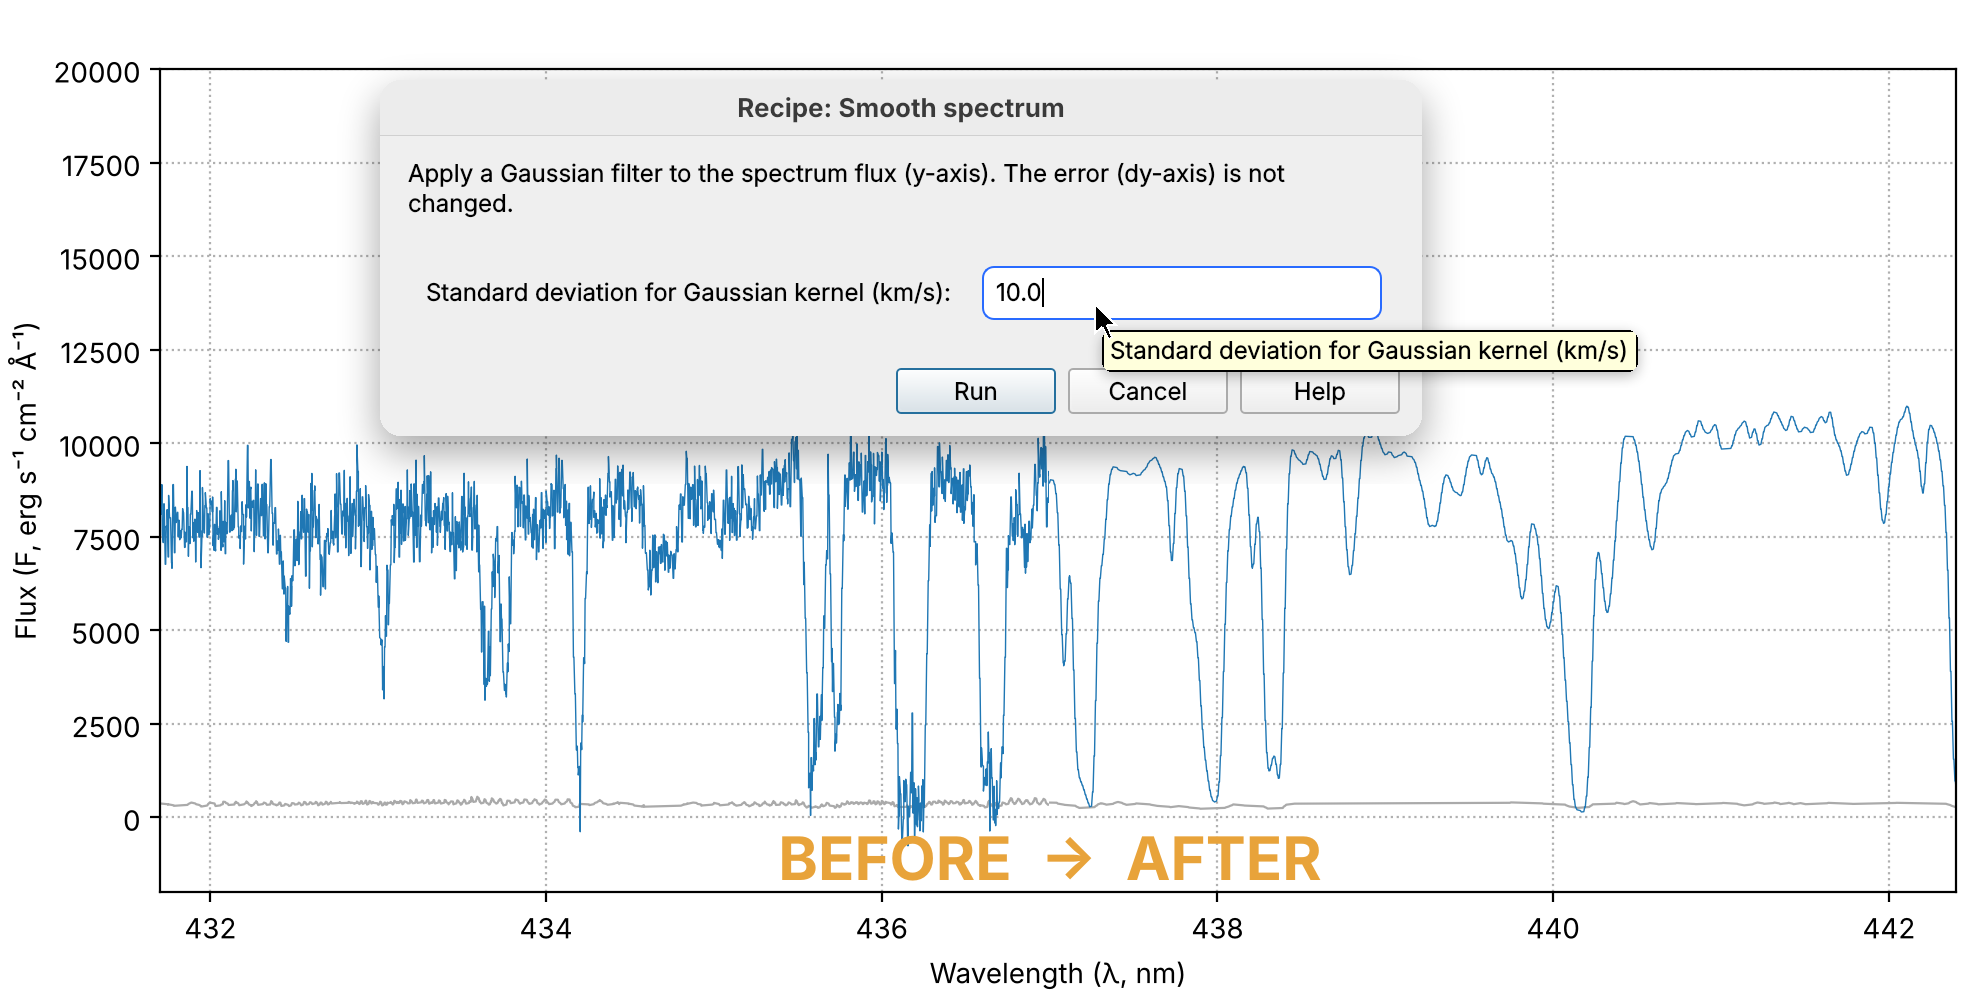
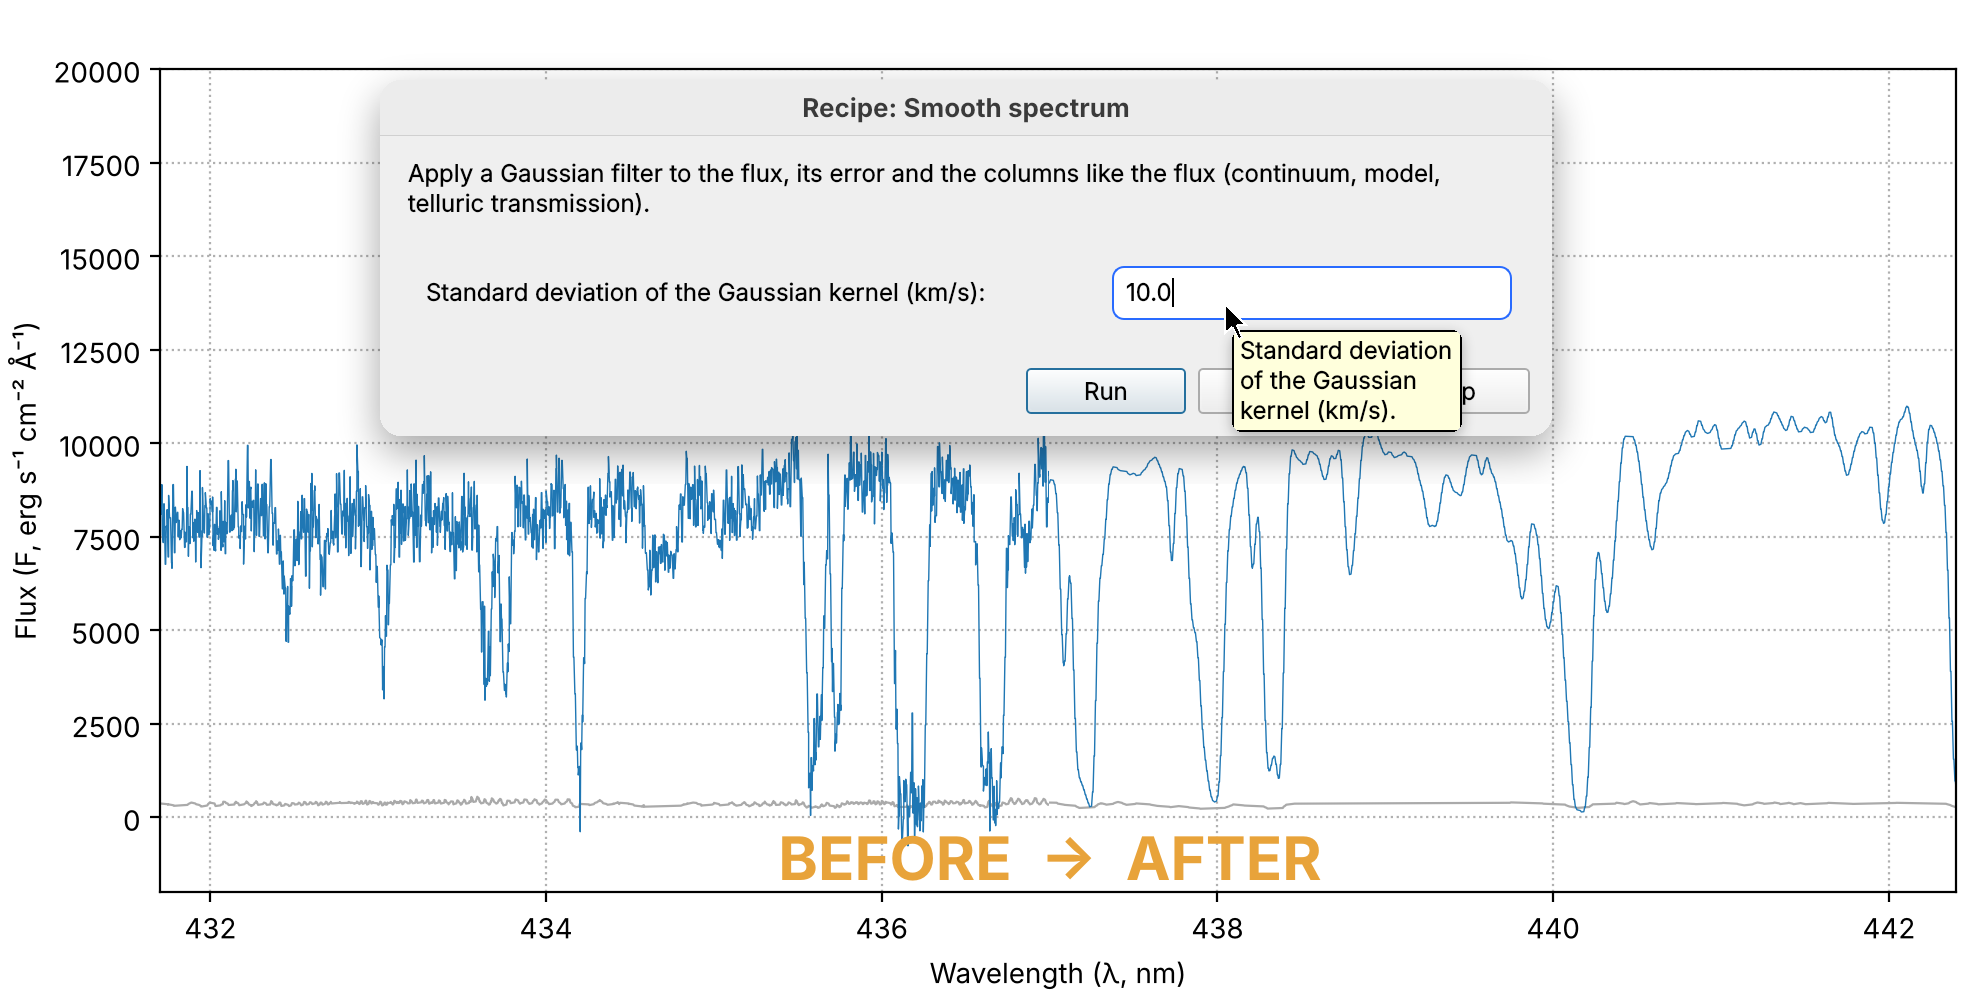
Phase 6-bis, PR 6a-bis: the dialogs keep their width with the new texts
The descriptions of the parameters are the labels of the dialogs: with
the sentences of PR 6a the dialogs grew wider than the window. The labels
wrap (those of the check boxes too, now beside them), the tooltips are
rich text and wrap; a test on the width of every dialog; the five
screenshots of dialogs rebuilt.

Claude-Session: https://claude.ai/code/session_01N95cbLQ7WGtHJHs4oF6oqT

diff --git a/astrocook/gui/recipe_dialog.py b/astrocook/gui/recipe_dialog.py
@@ -1,4 +1,5 @@
 import logging
+import html
 import webbrowser
 from PySide6.QtWidgets import (
     QDialog, QFormLayout, QFrame, QGridLayout, QLabel, QLineEdit, QCheckBox,
@@ -13,6 +14,11 @@ from .theme import (ACCENT, BUTTON_BACKGROUND, BUTTON_BORDER, BUTTON_PRESSED, DA
                     INPUT_BORDER, WARNING, themed)
 
 logger = logging.getLogger(__name__)
+
+#: Width of the labels of the parameters (points): they wrap within it
+LABEL_WIDTH = 340
+#: Width of the description of the recipe (points), the label and the field
+DIALOG_TEXT_WIDTH = LABEL_WIDTH + 260
 
 class RecipeDialog(QDialog):
     """
@@ -150,6 +156,7 @@ class RecipeDialog(QDialog):
         if self.schema.details:
             desc_label = QLabel(self.schema.details)
             desc_label.setWordWrap(True)
+            desc_label.setMaximumWidth(DIALOG_TEXT_WIDTH)
             main_layout.addWidget(desc_label)
 
         # 2. Parameters Form
@@ -173,8 +180,14 @@ class RecipeDialog(QDialog):
                 if is_current:
                     param_default, current_hint = self._current_value(param_name)
 
+                # The descriptions are sentences (phase 6-bis, PR 6a): the
+                # label wraps, so that the dialog keeps a reasonable width
                 label = QLabel(f"{param_doc.rstrip('.')}:")
-                label.setToolTip(param_doc) 
+                label.setWordWrap(True)
+                label.setFixedWidth(LABEL_WIDTH)
+                # As rich text, which Qt wraps (a plain one is one line)
+                tooltip = f"<p>{html.escape(param_doc)}</p>"
+                label.setToolTip(tooltip)
 
                 widget = None
                 
@@ -190,11 +203,13 @@ class RecipeDialog(QDialog):
                 elif param_type == bool:
                     def_c = param.default
                     if isinstance(def_c, str): def_c = def_c.lower() == 'true'
-                    widget = QCheckBox(); widget.setChecked(def_c); label.setText(""); widget.setText(f"{param_doc}")
+                    # The text in the label, which wraps (that of a check
+                    # box does not)
+                    widget = QCheckBox(); widget.setChecked(def_c)
                 else:
                     widget = QLineEdit(param_default)
 
-                widget.setToolTip(param_doc)
+                widget.setToolTip(tooltip)
                 if is_current and isinstance(widget, QLineEdit):
                     # Left empty, the parameter keeps its current value (F63)
                     widget.setPlaceholderText(current_hint or "current value")

diff --git a/tests/test_main_recipes.py b/tests/test_main_recipes.py
@@ -229,6 +229,22 @@ def test_recipe_dialog(ready, monkeypatch):
     assert window.active_recipe_dialog is None
 
 
+def test_the_dialogs_keep_a_reasonable_width(ready):
+    # The descriptions are sentences since phase 6-bis (PR 6a): their labels
+    # wrap, and the dialogs did grow wider than the window without it
+    from astrocook.recipes.registry import all_recipes
+    window = ready
+    for spec in all_recipes():
+        if spec.gui_hidden:
+            continue
+        window._launch_recipe_dialog(spec.category, spec.name)
+        dialog = window.active_recipe_dialog
+        if dialog is None:
+            continue
+        assert dialog.sizeHint().width() < 900, spec.name
+        dialog.reject()
+
+
 def test_set_properties_dialog_shows_the_current_values(ready):
     window = ready
     window._launch_recipe_dialog("edit", "set_properties", {"object": "QSO"})

diff --git a/ROADMAP.md b/ROADMAP.md
@@ -2326,7 +2326,11 @@ The full MCP server (section 4) is generated from this API.
      `mask_unabs`, `import_ascii` said it reads the system list, the
      meaning of `group_depth`, of `order` of *Equalize*); `stitch` declares
      its parameters (`other_sessions`, `sort`), so that it can be offered;
-     a test that every recipe and parameter is described;
+     a test that every recipe and parameter is described. Found after
+     the merge, while rebuilding the screenshots: with the longer texts the
+     dialogs grew wider than the window (the descriptions are their
+     labels); fixed in PR 6a-bis (labels and tooltips that wrap, a test on
+     the width of every dialog, the five screenshots of dialogs rebuilt);
   7. F12, the other half: the custom series of `add_component` kept with
      the session instead of `STANDARD_MULTIPLETS`;
   8. the MCP pilot moved onto the new API (still a thin layer: the test
@@ -3014,5 +3018,5 @@ review); each of its decisions goes into the log.
 | 5 – Splitting large files (and GUI performance) | done (October 2026): order of the phase agreed, F12 moved to 6-bis; GUI benchmark (`benchmarks/bench_gui.py`, #634); inspector table (first opening 3.7 → 1.3 s, #635); ticks of the main plot (redraw 0.19 → 0.13 s, #636), found F66; draws of the velocity plot coalesced (first opening 1.43 → 1.19 s, #637); Qt enums of the table read once (first opening 1.22 → 0.54 s; from 3.96 s before the phase, #638); highlights of the main plot blitted (selection of a row 0.32 → 0.22 s, #639); split of `SpectrumV2`: continuum (#640), found F67; lines (#641), found F68; calibration fixed (`np.trapz` removed from NumPy, #642), found F69, F70; flux (#643); combination (#644), found F71, F72; expressions and masks: split of `SpectrumV2` complete (2826 → 774 lines, #645); tests in parallel (#646); split of the GUI: F7 fixed (#647); inspector table (#648); velocity plot (#649); its rebuild and layout faster (selection 0.23 → 0.18 s, #650); parts of the main plot in their modules, found F73 (#651); continuum editor in a mixin, found F74 (#652); mouse handlers and tooltip in a mixin (#653); `plot_spectrum` split into its parts, found F75, F76 (#654); split of `main_window.py`: accessory widgets and dialogs (#655), menus, found F77 (#656); panels, found F78 (#657); controls of the continuum editor, F74 fixed (#658); sessions, found F79 (#659); recipes and scripts, found F80-F83: split of `main_window.py` complete (4831 → 541 lines) (#660); F82, F83 fixed (#661); F66 fixed, found F84 (#662); closing: documentation of the API (the methods of `SpectrumV2` back on its page), result of the phase (System Inspector opened ~7× faster, selection ~3×; `spectrum.py` 2826 → 774 lines, `main_window.py` 4831 → 541; coverage 67% → 81%) |
 | 5-bis – GUI look and ergonomics | done (November 2026): order of the phase agreed (all the findings proposed, F73, F76, F77, F80 included); F67, F71 fixed (PR 1, #664); F69 (PR 2, #665); F70 (PR 3, #666); #630 (PR 4, #667); F81, F75 (PR 5, #668); F78 (PR 6, #669); F85, the boxes of the System Inspector (PR 6-bis, #670); F77, F80 (PR 7, #671); F73 (PR 8, #672); F76 (PR 9, #673), found F86; F86 (PR 9-bis, #674); theme module, PR A (no visible change; Select icon, #675), found F87; PR B (dark mode, F87, #676); the toolbar of the plots redesigned (Guido's request, #677); View > Appearance and View > Show Toolbar, F88 (#678); the visual review, found F89, F90; the bugs of the review (F89, F90, the links and placeholders of the dark palette) and F91 (reported by Guido), found F92 (#679); the pass on the texts, with F92 (#680); the main plot (names of the emission lines in spectroscopic notation on a white ground, the ticks of the systems in two rows and softer, no title, the unit of the flux in the usual order; agreed with Guido, #681); the System Inspector (the error of z in km/s, btur hidden while not in use with a menu of the columns, the boxes above the plot in three groups on one row, to keep the plot aligned with the table: Guido; #682); the System Inspector without a continuum or systems (a message with a button instead of empty panels, the fits disabled, the transitions typed shown without a component, #683); the status bar (outcome of the last recipe, coordinates moved from the toolbars) and the keys of the System Inspector (#684; with it, the axes of the main plot on whole pixels: the constrained layout moved them by ~1e-13 px between draws); the toolbar floating over the plot and fading as the cards (Guido's request; as a card with its tab, as wide as the cards, #685); the minor points of the review: the Identifications window as a table, the formats of the Data Inspector (found F93: the identification by doublets, for phase 7; #686); the main window and the menus (the welcome screen with Open Session and the recent files, File > Open Recent, the window geometry remembered, Import Systems in Absorbers, several files loaded in the background with their progress, Guido's request; #687); the script console left as it is (Guido: kept in the code until it is clear whether it is needed with the MCP server, or can be given another use); the colours of the plots (Guido's choice after a comparison on the main plot and the System Inspector, with simulations of colour blindness: View > Plot Colours, the standard palette with a thinner model, or a colour-blind safe one from the Okabe-Ito palette, where model, selection and residuals of the velocity plot no longer turn one olive for a deuteranope; with it, the CIV/SiIV system of the screenshots of the System Inspector refined with Optimize System, Guido's request; #688); closing: result of the phase in "Result of the phase" |
 | 6 – Error handling | done (November 2026): plan, inventory of the broad except clauses, rule of the log messages (PR 1, #691); F94 (PR 2, #692); loggers per module, F96 (PR 3, #693); rows N and R of core, fitting and io and their messages, found F97 (PR 4a, #694); their rows D (PR 4b, #695); rows N, R and B of the recipes and their messages, found F98 (PR 5a, #696); their rows D (PR 5b, #697); prerequisites of the fits, F99, the scheme of the prerequisites for 6-bis (PR 5c, #698); rows N and C of the GUI and its messages, `V1LogArtifact` removed (PR 6a, #699); rows B and D of the GUI and of the launcher, the hook for unexpected errors (PR 6b, #700); the warnings of the libraries, warnings as errors in the tests (PR 7, #701); closing: result of the phase in "Result of the phase" |
-| 6-bis – Recipe API | in progress (November 2026): plan of the phase (PR 0, #705); the typed registry, F79, half of F12 (PR 1, #706); typed parameters of continuum, flux and file, the log of the values used (PR 2a, #707); Edit, F46 and the bounds (PR 2b, #708); Absorbers, all the recipes typed (PR 2c, #709); exceptions, continuum, flux and file (PR 3a, #710); edit (PR 3b, #711); absorbers, no recipe returns 0 (PR 3c, #712); structured result, `run` (PR 4a, #713); region and score of the candidates, `not_fitted`, the reasons of the removals (PR 4b, #714); F102, the notes of a result in the status bar and the log (PR 4c, #715); prerequisites, core and scripts, F103 (PR 5a, #716); the GUI asks for the continuum, F104 (PR 5b, #717); descriptions reviewed, F48, the parameters not for agents (PR 6a) |
+| 6-bis – Recipe API | in progress (November 2026): plan of the phase (PR 0, #705); the typed registry, F79, half of F12 (PR 1, #706); typed parameters of continuum, flux and file, the log of the values used (PR 2a, #707); Edit, F46 and the bounds (PR 2b, #708); Absorbers, all the recipes typed (PR 2c, #709); exceptions, continuum, flux and file (PR 3a, #710); edit (PR 3b, #711); absorbers, no recipe returns 0 (PR 3c, #712); structured result, `run` (PR 4a, #713); region and score of the candidates, `not_fitted`, the reasons of the removals (PR 4b, #714); F102, the notes of a result in the status bar and the log (PR 4c, #715); prerequisites, core and scripts, F103 (PR 5a, #716); the GUI asks for the continuum, F104 (PR 5b, #717); descriptions reviewed, F48, the parameters not for agents (PR 6a, #718); the dialogs with the longer texts (PR 6a-bis) |
 | 7 – Robust components | not started |

diff --git a/CHANGELOG.md b/CHANGELOG.md
@@ -15,6 +15,7 @@ Phase 6-bis of the consolidation: the recipe API (in progress).
 - The GUI asks for a continuum when a recipe needs one and the spectrum has none: **Estimate** (with the defaults of *Auto-estimate Continuum*), **Open Auto-estimate Continuum...** or **Cancel**; the recipe then runs, as after *Set Properties* for z_em and the resolution. It estimated the continuum by itself, without asking (or identified without one, F103).
 
 - The descriptions of the recipes and of their parameters, shown by the dialogs and read by the AI agents, are reviewed: every recipe says what it does and every parameter what it means, with its unit; wrong ones fixed (the mask of *Identify lines* is True for the absorbed pixels, F48; *Find absorbed regions* writes `abs_mask`, not `mask_unabs`; *Import from ASCII* reads columns of the spectrum, not the system list). For developers: the key `agents` of a parameter in the registry (False for the options of debug and the questions of the GUI), and *Merge multiple sessions* (`stitch`) declares its parameters.
+- The dialogs of the recipes keep a reasonable width with the new descriptions: the labels of the parameters wrap (also those of the check boxes, now beside them), and so do the tooltips. The screenshots of the dialogs in the tutorials rebuilt.
 
 ### Changed (failures)
 - A recipe that cannot do what was asked raises an exception that says in which recipe it happened and why (`astrocook.recipes.errors`: `InvalidParameter` for a value that cannot be used, `RecipeFailed`, `MissingPrerequisite`), instead of logging the reason and returning `0`: all the recipes. An expression that cannot be evaluated (*Apply*, *Mask*, *Split*) says which expression and why (a syntax error reached the GUI as an internal error). The error of a step of a pipeline names both, e.g. *Populate components from identification → Auto-estimate continuum (single-click): ...*. The GUI shows the message as before; a script gets the exception (`except RecipeError`); an agent gets the message from the MCP server. *Export to ASCII* says why it failed (it pointed to the log), and says when there is nothing to export.
